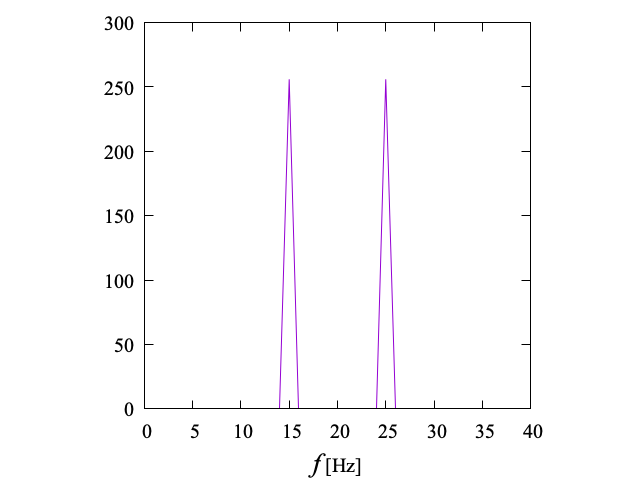
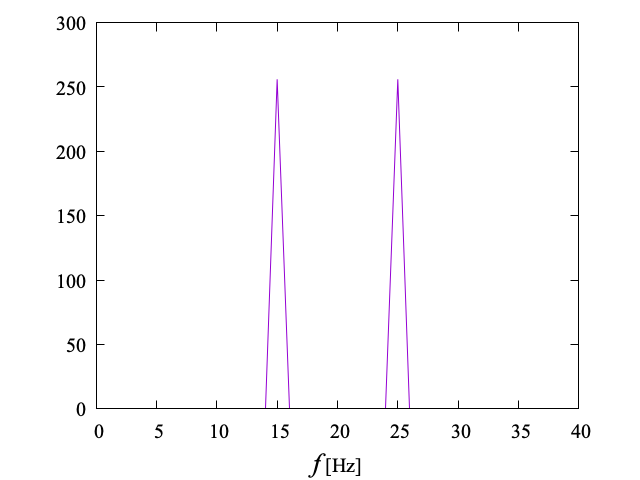
a

diff --git a/11/2.cpp b/11/2.cpp
@@ -7,6 +7,8 @@ DATE : 2021/3/29
 #include<sys/stat.h>
 using namespace std;
 
+#define CPU_TIME_PER_SEC 1000
+
 void S_fft (double *ak, double *bk, int N, int ff);
 void Ini_val (double *re_f, double *im_f, int N, int A, int B);
 
@@ -21,6 +23,7 @@ char file_path_img[100];
 const int A = 20; //Frequency parameter 1
 const int B = 5; // 2
 const double t_length =1.0; // Measuring time
+const double coef_a = 0.000008;
 
 double pw, fq;
 
@@ -61,14 +64,14 @@ int main(){
 	    fprintf(gp,"set key right top\n");
 	    fprintf(gp,"set size ratio 0.8\n");
         fprintf(gp,"set xlabel '{/Times-New-Roman:Italic=20 t} [sec]'\n");
-        fprintf(gp,"plot '%s' using 1:2 with lines title 'N = %d'\n",file_path_dat,N[i]);
+        fprintf(gp,"plot '%s' using 1:2 with lines title 'N = %d'\n",file_path_dat,N[i],coef_a);
         pclose(gp);
 
-        cpu_time[2*i] = clock()/1000.0;
+        cpu_time[2*i] = clock()/(double)CPU_TIME_PER_SEC;
 
         S_fft(re_f, im_f, N[i], 1);
 
-        cpu_time[2*i+1] = clock()/1000.0;
+        cpu_time[2*i+1] = clock()/(double)CPU_TIME_PER_SEC;
 
         sprintf(file_path_dat, "%s/%s%05d.dat",output_data_dir,output_header2,N[i]);
         fp = fopen(file_path_dat,"w");
@@ -105,11 +108,12 @@ int main(){
     gp = popen("gnuplot","w");
     fprintf(gp,"set terminal pngcairo enhanced font 'Times New Roman,15'\n");
 	fprintf(gp,"set output '%s'\n",file_path_img);
-	fprintf(gp,"unset key\n");
+	fprintf(gp,"set key left top\n");
     fprintf(gp,"set size ratio 0.8\n");
+    fprintf(gp,"set logscale x 2\n");
     fprintf(gp,"set xlabel 'Number of discrete value {/Times-New-Roman:Italic=20 N} [-]'\n");
-    // fprintf(gp,"set xrange [0:40]\n");
-    fprintf(gp,"plot '%s' using 1:2 with linespoints\n",file_path_dat);
+    fprintf(gp,"set ylabel 'time {/Times-New-Roman:Italic=20 t} [sec]'\n");
+    fprintf(gp,"plot '%s' using 1:2 with linespoints title 'CPU TIME', %lf*x*log(x)/log(2)\n",file_path_dat,coef_a);
     pclose(gp);
 
     return 0;

diff --git a/11/1.cpp b/11/1.cpp
@@ -61,7 +61,7 @@ int main () {
     fprintf(gp,"set terminal pngcairo enhanced font 'Times New Roman,15'\n");
 	fprintf(gp,"set output './img/Ex1-FFT.png'\n");
 	fprintf(gp,"unset key\n");
-	fprintf(gp,"set size ratio 1\n");
+	fprintf(gp,"set size ratio 0.8\n");
     fprintf(gp,"set xlabel '{/Times-New-Roman:Italic=20 f} [Hz]'\n");
     fprintf(gp,"set xrange [0:40]\n");
     fprintf(gp,"plot './data/Ex1-FFT.dat' using 1:2 with lines\n");
